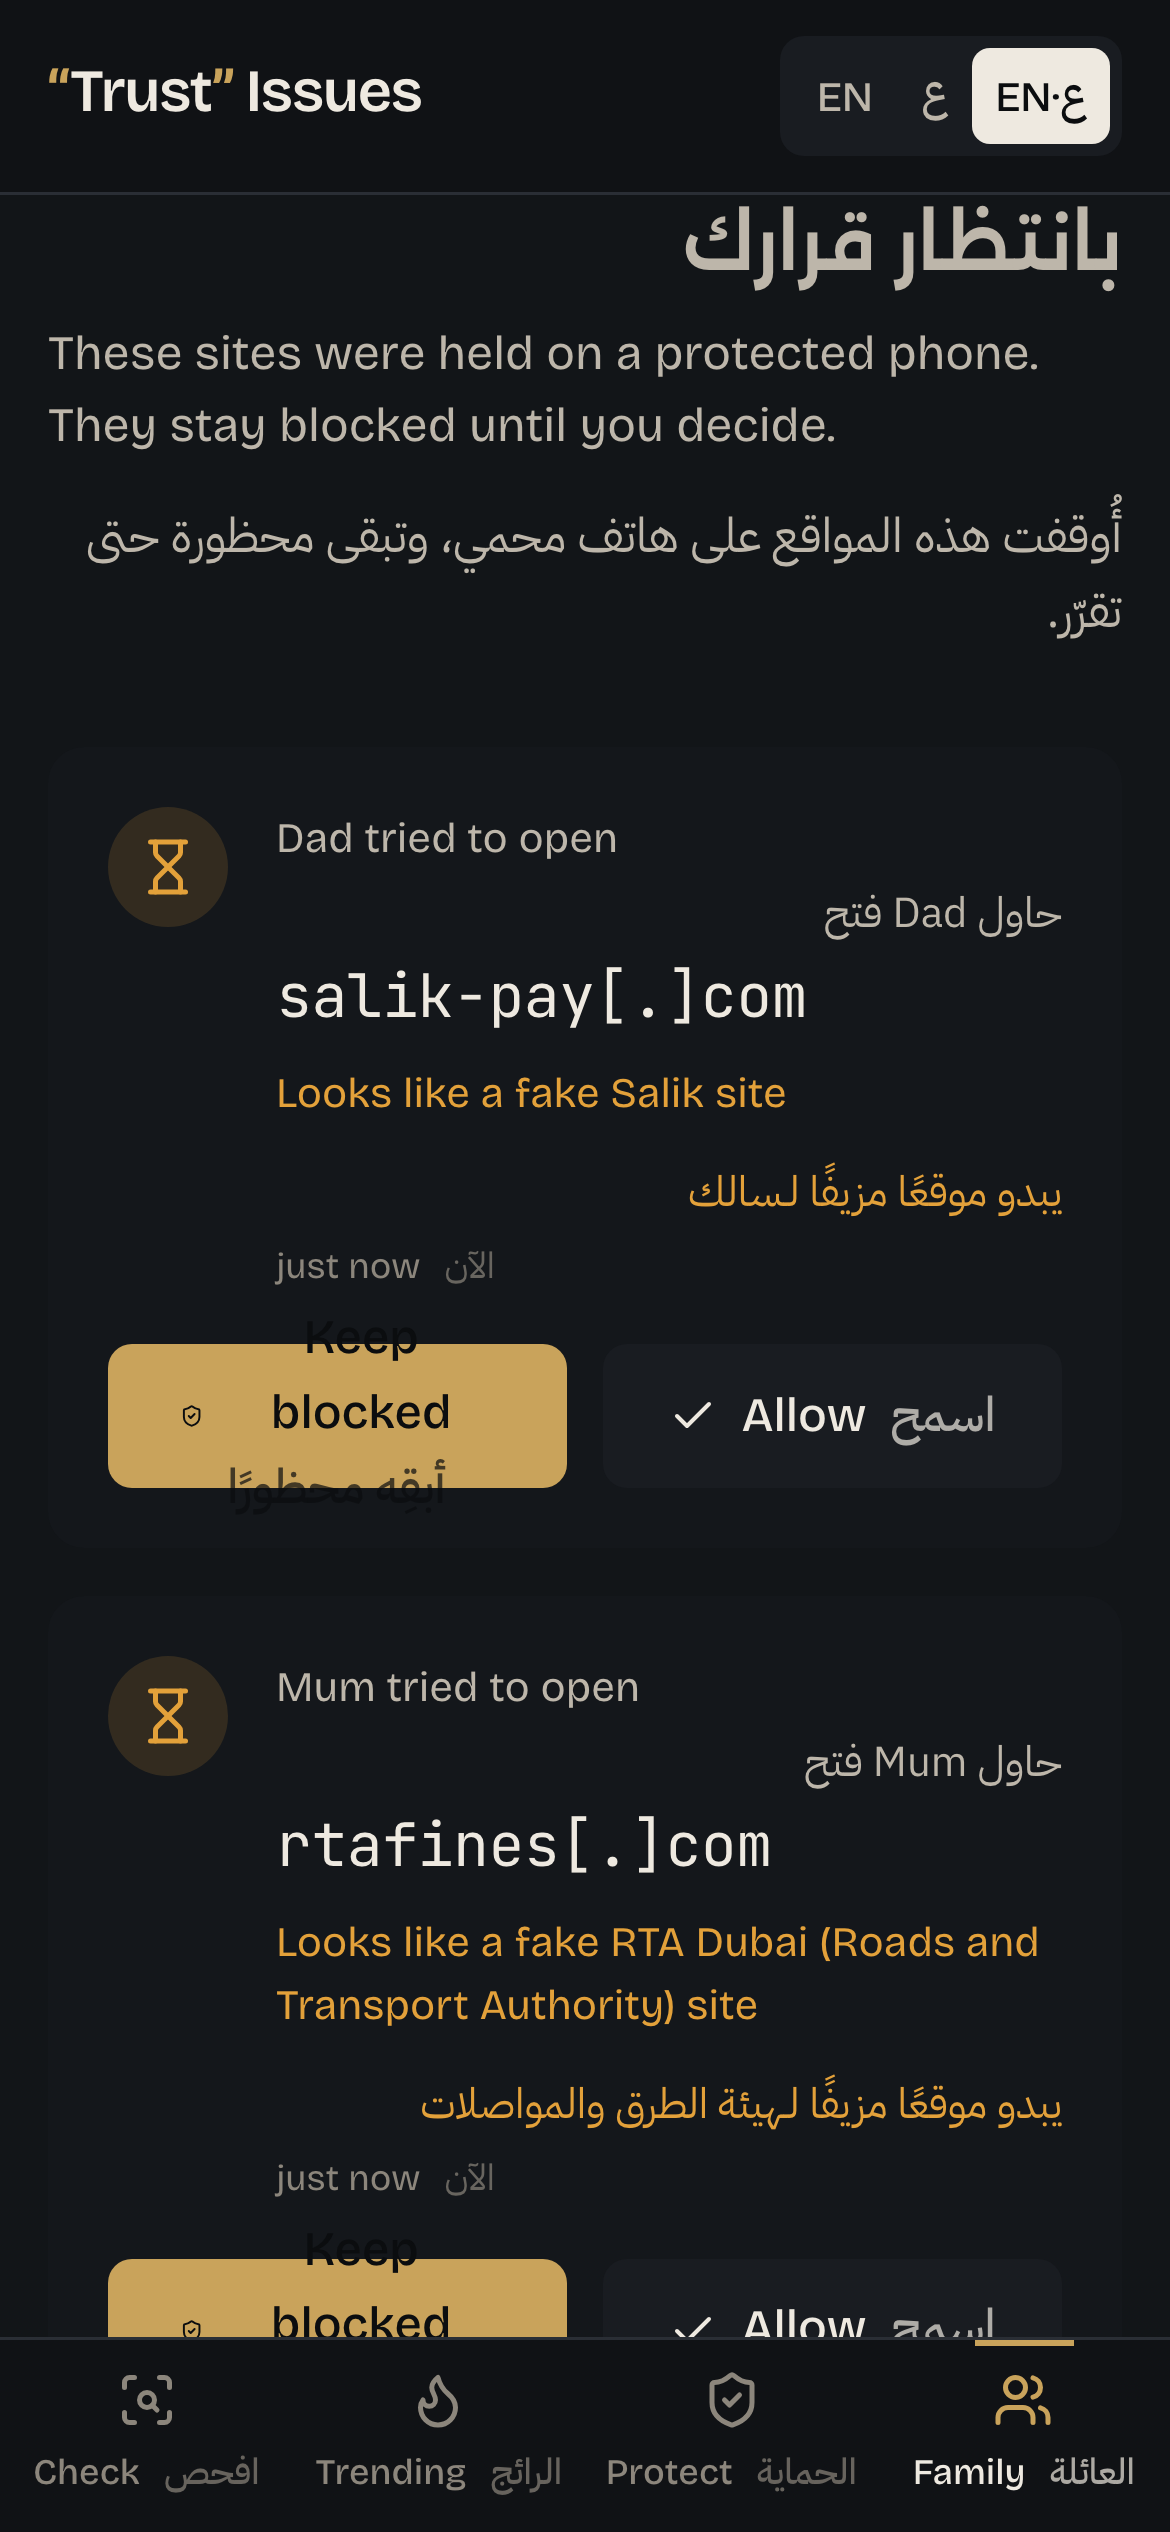
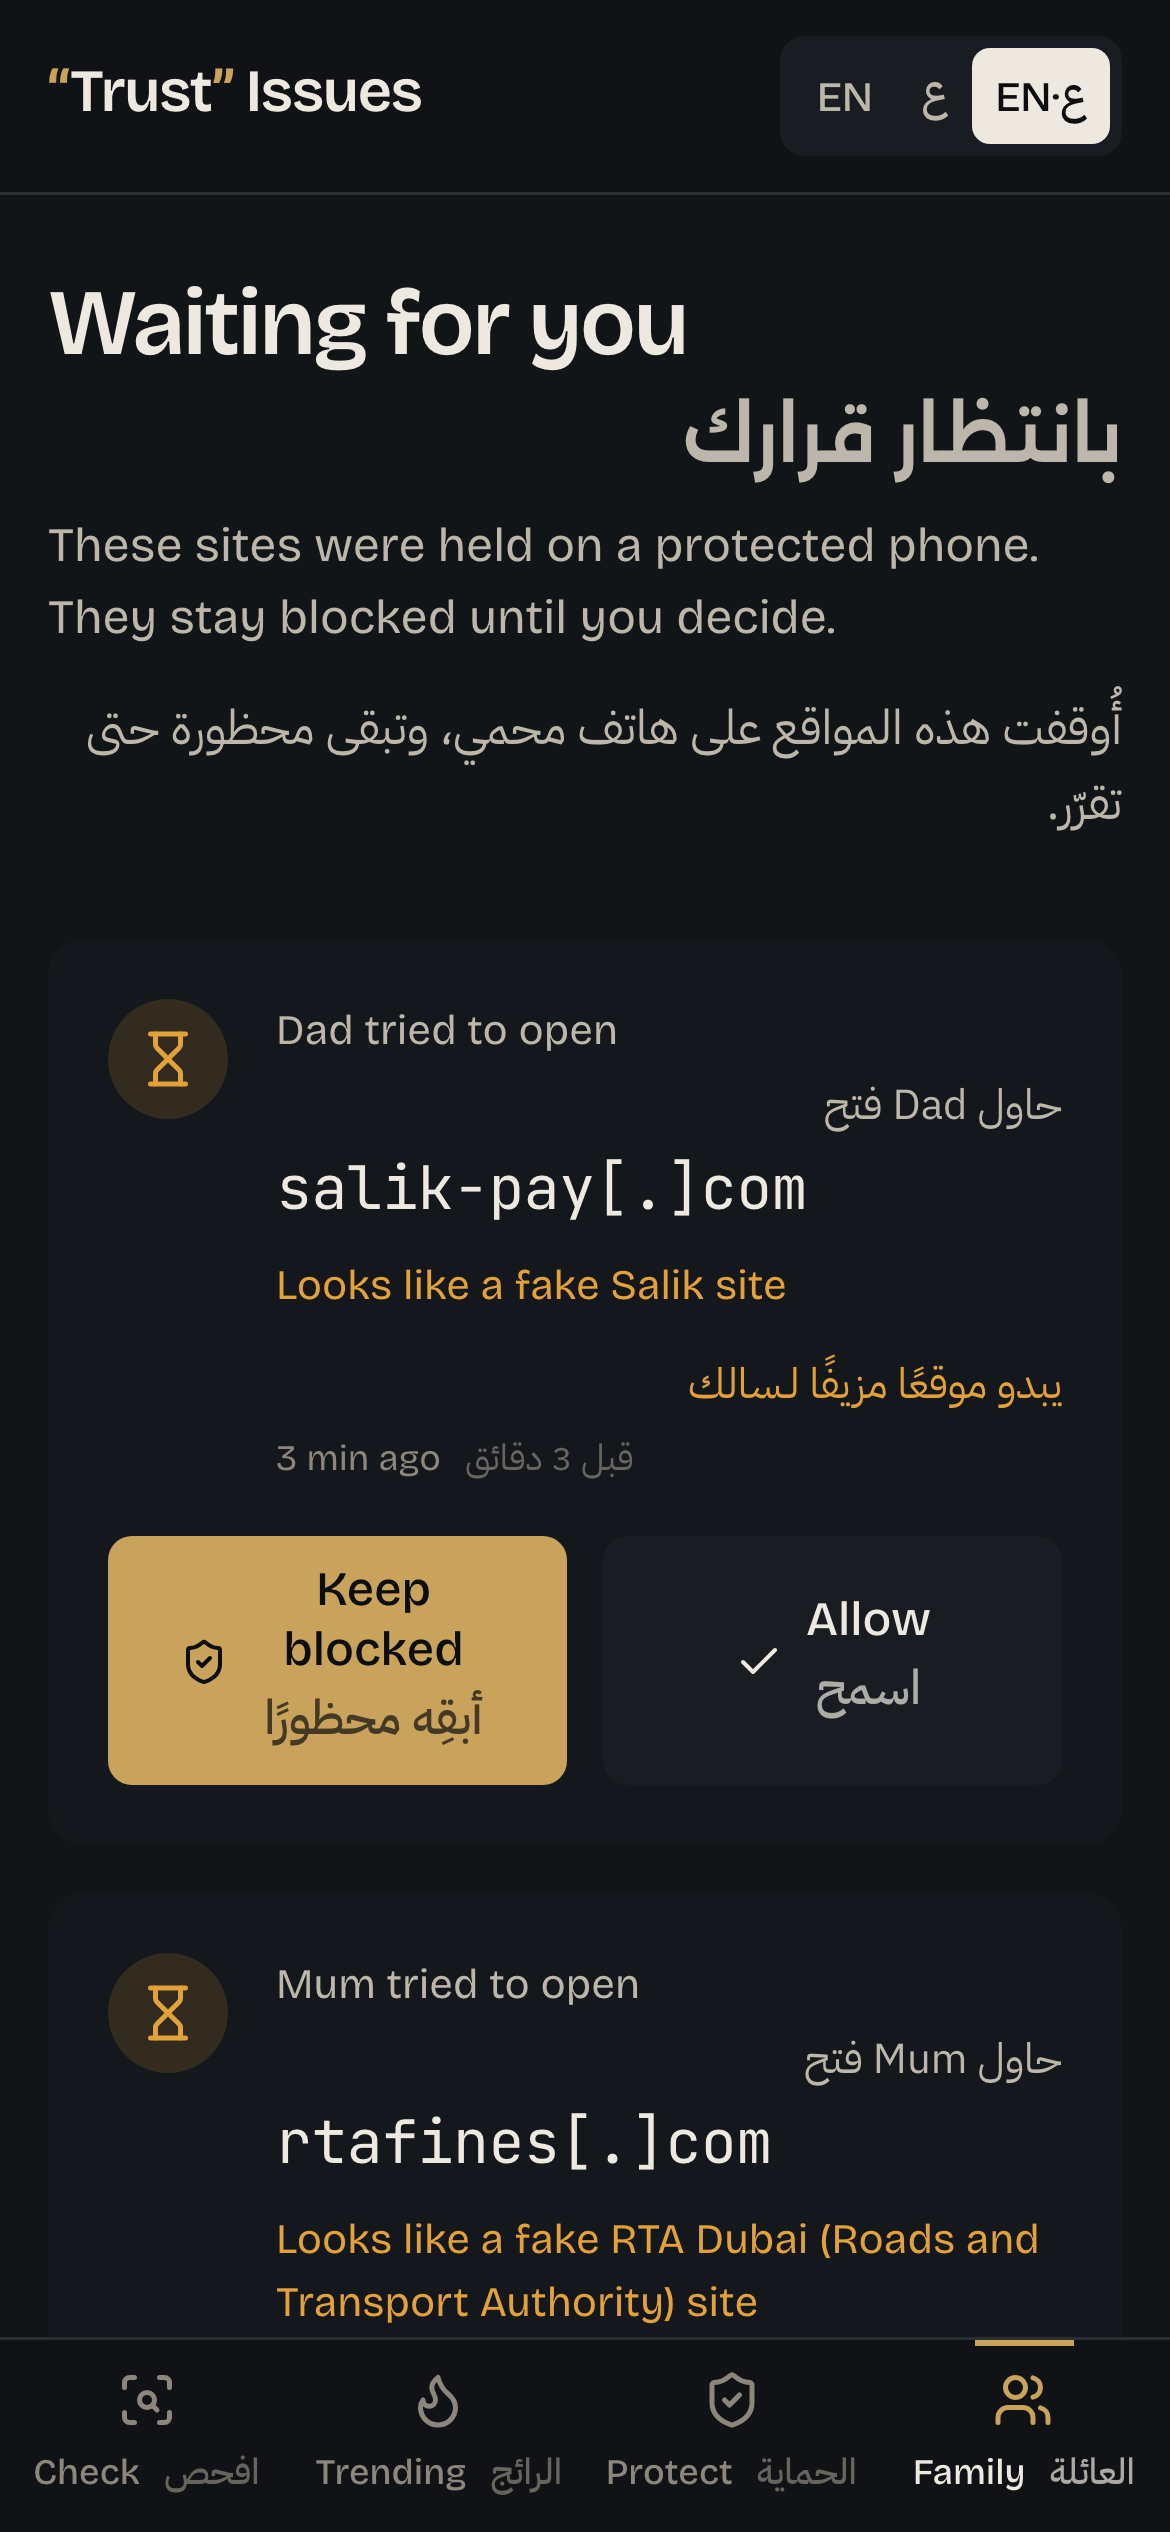
SOS button fits its bilingual label on phones; Family Shield screens in the README

diff --git a/web/src/pages/Family.tsx b/web/src/pages/Family.tsx
@@ -651,9 +651,9 @@ function MemberView({ state, reg }: { state: FamilyState; reg: DeviceRegistratio
             <Tile to="/protect" icon={ShieldCheck} label={S.tileBlocks} />
           </div>
 
-          <button type="button" onClick={() => setSosOpen(true)} className="press mt-4 flex h-20 w-full items-center justify-center gap-3 rounded-2xl bg-scam text-xl font-medium text-ink-950 transition-colors hover:bg-[#ec6a63]">
-            <Siren className="size-7" aria-hidden="true" />
-            <T k="sosButton" />
+          <button type="button" onClick={() => setSosOpen(true)} className="press mt-4 flex min-h-20 w-full items-center justify-center gap-4 rounded-2xl bg-scam px-5 py-4 text-lg font-medium text-ink-950 transition-colors hover:bg-[#ec6a63] sm:text-xl">
+            <Siren className="size-8 shrink-0" aria-hidden="true" />
+            <T k="sosButton" stacked />
           </button>
         </Reveal>
 

diff --git a/README.md b/README.md
@@ -45,6 +45,10 @@ Scam sites need an HTTPS certificate before the first SMS or WhatsApp wave goes 
 | **Police console: live radar** | **Police console: cases** |
 | ![Radar](docs/screens/radar.png) | ![Cases](docs/screens/cases.png) |
 
+**Family Shield: the guardian approves a held site, and Mum's phone gets a simple home with SOS** (live site, real DNS decisions)
+
+<p align="center"><img src="docs/screens/family_guardian.png" width="260" alt="Guardian approvals"> <img src="docs/screens/family_member.png" width="260" alt="Elder home with SOS"></p>
+
 <p align="center"><img src="docs/screens/mobile_home.png" width="200" alt="Mobile home"> <img src="docs/screens/mobile_verdict.png" width="200" alt="Mobile verdict"> <img src="docs/screens/mobile_protect.png" width="200" alt="Protect my phone"> <img src="docs/screens/mobile_trending.png" width="200" alt="Trending scams"></p>
 
 **1-minute demo video:** [`docs/Trust-Issues-Demo.mp4`](docs/Trust-Issues-Demo.mp4), recorded from the running product on live data.
